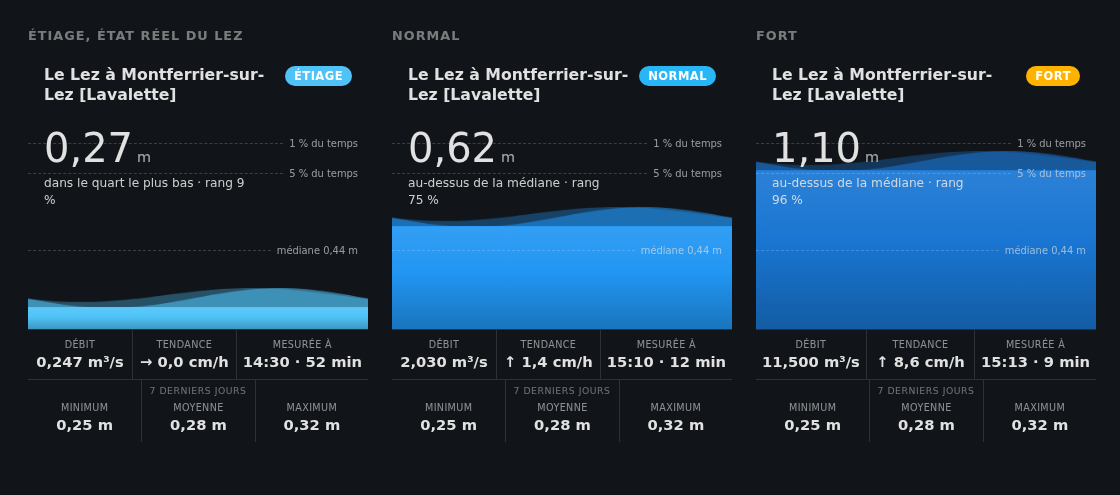
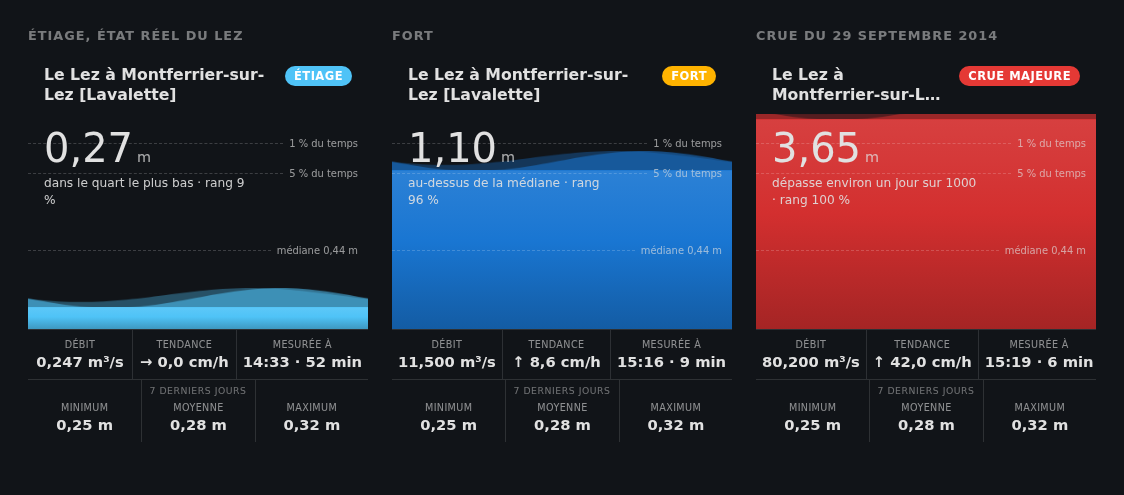
Image de tete : l'etiage, le regime fort et la crue cote a cote
Les trois premieres colonnes de la demonstration montraient l'etiage, le
normal et le fort, soit trois cartes bleues qui se ressemblent. La capture
compose maintenant les trois etats qui disent l'ecart : 0,27 m en etiage,
1,10 m en regime fort, 3,65 m en crue majeure.

diff --git a/README.md b/README.md
@@ -12,7 +12,7 @@ leur propre station : régime, rang en percentiles, extrêmes connus. Les donné
 viennent de l'API publique [Hub'Eau][hubeau], **sans clé ni compte**, et une
 carte Lovelace est livrée avec l'intégration.
 
-![La carte, en étiage, en régime fort et en crue][capture]
+![La carte en étiage, en régime fort et en crue majeure][capture]
 
 ## Sommaire
 
